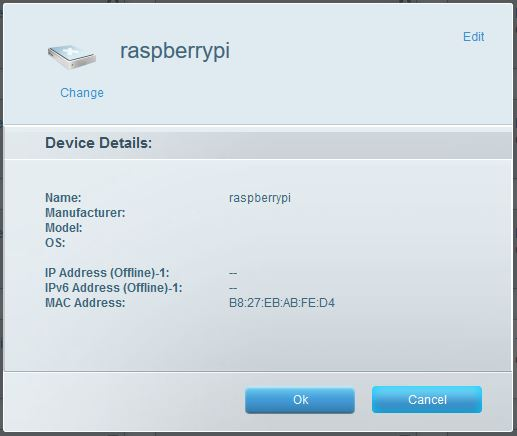
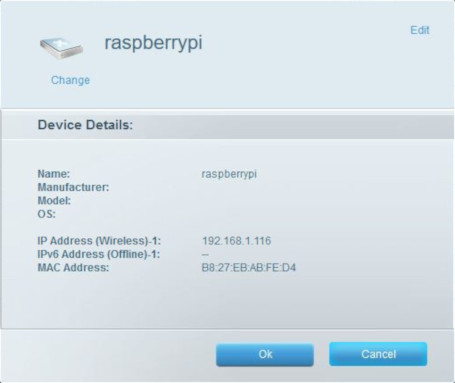
Update

diff --git a/projects/headless_dev.html b/projects/headless_dev.html
@@ -1,0 +1,135 @@
+<!doctype html>
+
+<html lang="en">
+
+<head>
+    <meta charset="utf-8">
+    <meta name="description" content="From Box to Shell - Setting up a Headless Raspberry Pi">
+    <title>Set up Headless Pi | William Asper</title>
+    <link rel="stylesheet" href="blogstyle.css" type="text/css">
+</head>
+
+<body>
+    <center><h1>From The Box to The Shell - Setting up a Headless Raspberry Pi</h1></center>
+
+    <h2>Goal:</h2>
+    <p>Our goal is to set up a Raspberry Pi to be headless, or without a monitor, that we can connect to through SSH. This will be very useful for setting up 
+        Raspberry Pi Zero W boards because these use mini HDMI for display out, and you need a USB-OTG adapter to connect a mouse and keyboard. 
+        You can set up any Raspberry Pi board in this way.
+    </p>
+
+    <h2>Materials:</h2>
+    <ol>
+        <li>Raspberry Pi that can connect to the internet (using built-in Wi-Fi or a dongle)</li>
+        <li>Good quality SD card</li>
+        <li>Micro-USB power supply for powering the board</li>
+    </ol>
+
+    <h2>Software Used:</h2>
+    <ol>
+        <li>PuTTY (or another SSH client). <a href="https://www.chiark.greenend.org.uk/~sgtatham/putty/latest.html">Get PuTTY.</a></li>
+        <li><a href="https://sourceforge.net/projects/win32diskimager/files/latest/download">Win32 Disk Imager</a></li>
+    </ol>
+
+    <hr>
+
+    <h3>Step 1:</h3>
+    <p>The first step is to download the operating system the Raspberry Pi will use, I chose to use Raspbian, the official Raspberry Pi operating 
+        system. You could use another operating system, but the steps to set up SSH may be slightly different. <a href="https://www.raspberrypi.org/downloads/raspbian/">Get Raspbian.</a> 
+        Since we are setting up our Pi to work headless, we can choose the "lite" version of whatever operating system because 
+        we do not need the desktop features. This saves space on our SD card, too.
+    </p>
+
+    <h3>Step 2:</h3>
+    <p>Next, use Win32 Disk Imager to write the operating system to the SD card.</p>
+    <div class = "two">
+        <div class = "image">
+            <img src="images/win32disk.JPG" alt="Windows thirty two disk imager.">
+        </div>
+        <div class = "text">
+            <p>Select the downloaded operating system image with the blue folder icon.</p>
+            <p><b>Make sure the correct drive is selected!</b></p>
+            <p>Click "Write" to write the operating system to the SD card. This will take a while.</p>
+        </div>
+    </div>
+
+    <h3>Step 3:</h3>
+    <div class="block">
+        <p>Next, we need to create a file that will let us use SSH on the Raspberry Pi. To improve security of connected devices, your Raspberry Pi operating 
+            system will most likely have SSH disabled by default.
+        </p>
+        <p>You may need to eject your card and re-insert it into your PC to find the <b>/boot</b> directory.</p>
+        <p>Rasbian needs an empty, extensionless file named <b>" ssh. "</b> in the /boot directory of the SD card to enable SSH. To do this on Windows, open Notepad and save a blank file with 
+            the name <b>" ssh. "</b> and choose <b>All Files</b> for the Save as type. Move this file to the /boot directory. <b>note: the " . " at the end of ssh is important when 
+            saving the SSH file otherwise Windows will make this a text file, even if we choose All Files for the Save as type.</b>
+        </p>
+        <p>Congratulations, you are now ready to plug in your Raspberry Pi!</p>
+    </div>
+
+    <h3>Step 4:</h3>
+    <p>Now we will plug in the Raspberry Pi to a power supply. While the Raspberry Pi boots for the first time, we need to find the IP 
+        address of the Pi. There are many ways to do this, I logged into my home router to look at the connected devices because this was 
+        easiest for me to do.
+    </p>
+    <div class="two">
+        <div class="text">
+            <p>This is what I see when I look into connected devices on my home router.</p>
+            <p>What we are looking for is the IP Address so we know what to SSH to later.</p>
+            <p>Here, my Raspberry Pi's address is 192.168.1.116. Your Pi's address will be similar to this, because devices on your local network are going 
+                to probably start with 192.168.1
+            </p>
+        </div>
+        <div class="image">
+            <img src="images/ip.JPG" alt="Router connected devices.">
+        </div>
+    </div>
+
+    <h3>Step 5:</h3>
+    <p>The next step is to open our SSH client and attempt to log into the Pi.</p>
+    <div class="two">
+        <div class="text">
+            <p>This is the main screen of PuTTY. All we need to do to connect to the Pi is put the IP address.</p>
+            <p>If you want to save the IP address to connect easily in the future, enter a name for the connection and click Save.</p>
+            <p>In the future, we can open a connection to this IP address by double-clicking the saved session name.</p>
+        </div>
+        <div class="image">
+            <img src="images/putty.JPG" alt="Putty main screen.">
+        </div>
+    </div>
+    <div class="two">
+        <div class="text">
+            <p>If you see this, congratuations! You have now connected to your Raspberry Pi over SSH.</p>
+            <p>The next steps are to <b>change the default password</b> and set a static IP address.</p>
+            <p>The default login for the Raspberry Pi is user: pi, password: raspberry</p>
+        </div>
+        <div class="image">
+            <img src="images/blank_login.PNG" alt="Blank login screen.">
+        </div>
+    </div>
+
+    <h3>Step 6:</h3>
+    <p>The next step is to change the default password for the Raspberry Pi. This is important to do because anyone on your network could log in to the 
+        Raspberry Pi.
+    </p>
+    <div class="two">
+        <div class="text">
+            <p>To change the password, use the command <b>passwd</b> and follow the prompts.</p>
+        </div>
+        <div class="image">
+            <img src="images/change_passwd.PNG" alt="Change the password.">
+        </div>
+    </div>
+
+    <h3>Step 7:</h3>
+    <p>The last step for our SSH setup is to make sure the Raspberry Pi has a static IP address so we always know where to connect to in the future, and
+        we can save a SSH connection.
+    </p>
+    <div class="two">
+        <div class="text">
+            <p></p>
+        </div>
+    </div>
+
+</body>
+
+</html>

diff --git a/projects/blogstyle.css b/projects/blogstyle.css
@@ -49,6 +49,7 @@ p {
 }
 
 .two {
+  padding: 32px 0;
   display: inline-block;
   height: 100%;
   width: 100%;
